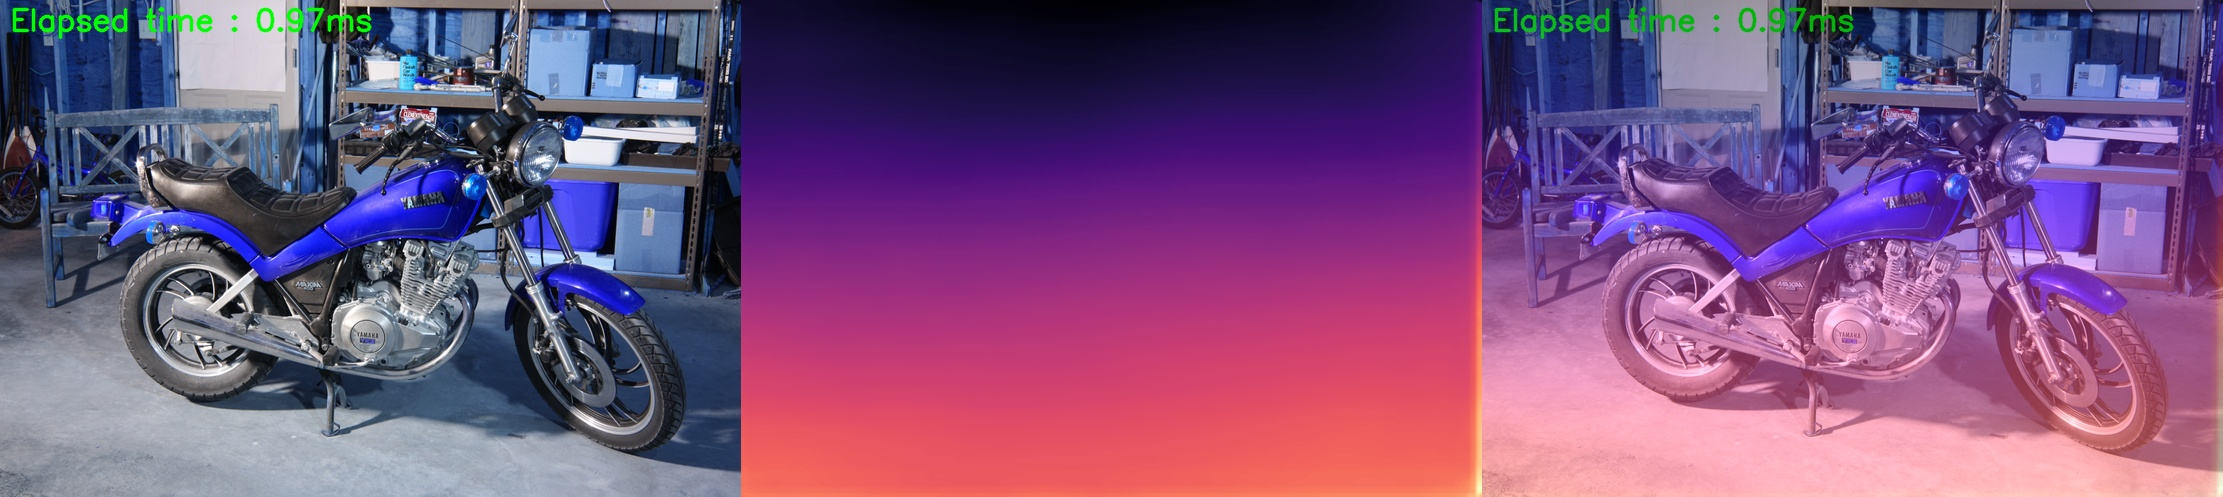
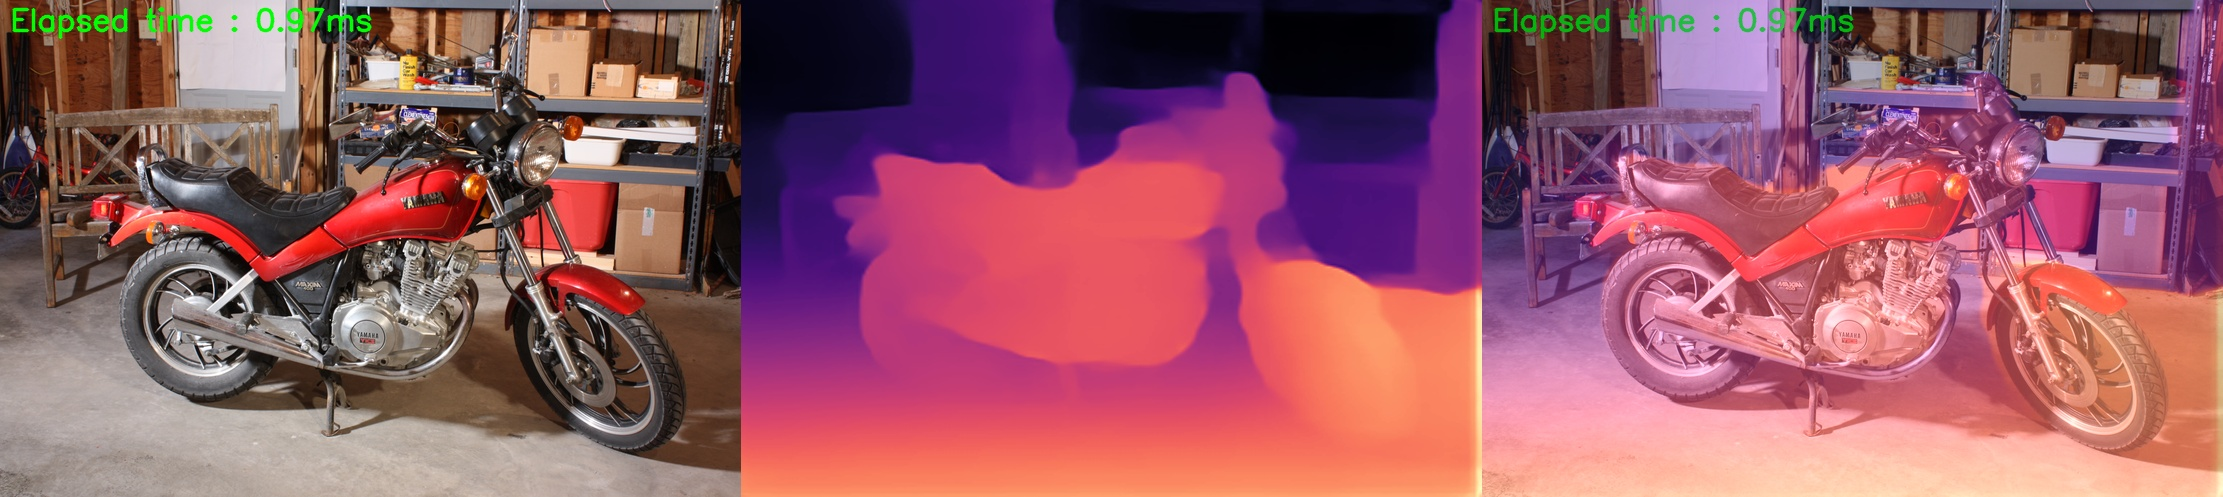
rocky6

diff --git a/MidasDepthEstimation/midasRknnEstimator.py b/MidasDepthEstimation/midasRknnEstimator.py
@@ -21,7 +21,7 @@ class midasRknnEstimator():
 
 		# Perform inference on the image
 		# rawDisparity = rknn.inference(input_tensor)
-		outputs = rknn.inference(inputs=[image])
+		outputs = rknn.inference(inputs=[input_tensor])
 		print("Outputs: {}".format(outputs))
 		rawDisparity = outputs[0][0]
 		print("RawDisp: {}".format(rawDisparity))
